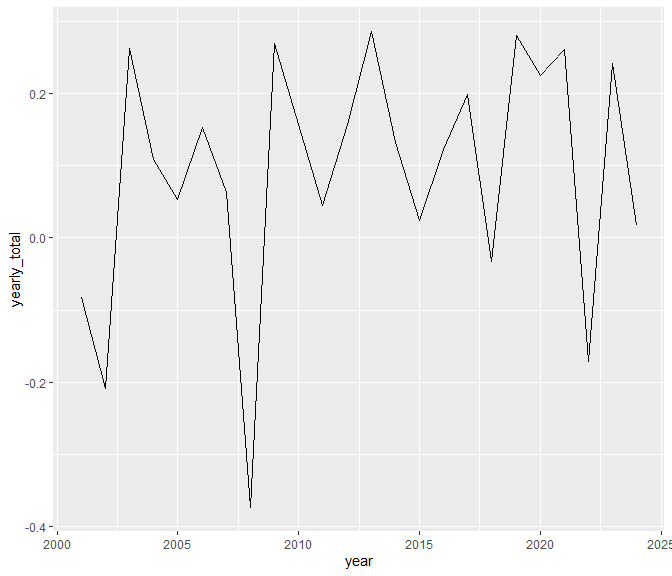
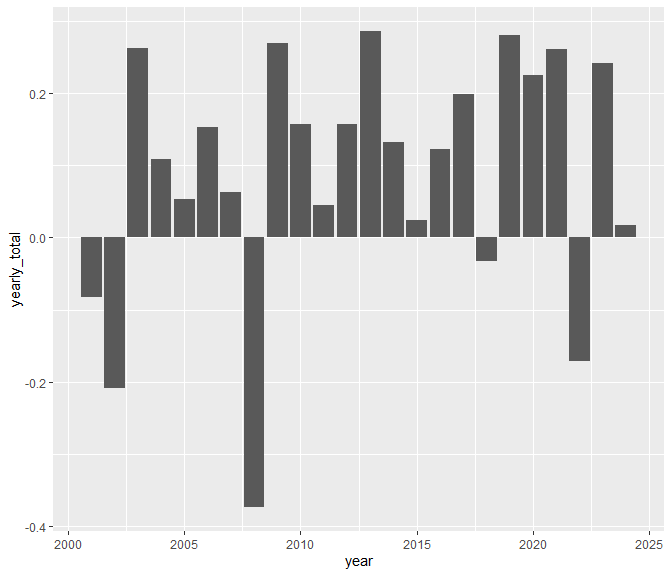
update files

diff --git a/wk2-workshop.md b/wk2-workshop.md
@@ -32,10 +32,10 @@ stocks = readRDS("../data/wk2_stocks.rds")
 
 ``` r
 #cumulative returns of the SP stocks
-sum(stocks$SPY_returns)
+sum(stocks$SPY_returns)*100
 ```
 
-    ## [1] 2.183304
+    ## [1] 218.3304
 
 ``` r
 #average daily returns of the SP index
@@ -45,17 +45,26 @@ sum(stocks$SPY_returns)/(sum(!duplicated(stocks$date)))
     ## [1] 0.0003765616
 
 ``` r
-mean(stocks$SPY_returns)
+mean(stocks$SPY_returns)*100
 ```
 
-    ## [1] 0.0003765616
+    ## [1] 0.03765616
 
 ``` r
 #standard deviation
-sd(stocks$SPY_returns)
+sd(stocks$SPY_returns)*100
 ```
 
-    ## [1] 0.01221943
+    ## [1] 1.221943
+
+- The cumulative returns of the S&P index during this period is
+  `sum(stocks$SPY_returns)*100`
+
+- The average daily returns of the S&P index during this period is
+  `mean(stocks$SPY_returns)*100`
+
+- The standard deviation of the daily returns of the S&P index during
+  this period is `sd(stocks$SPY_returns)*100`
 
 plots
 
@@ -75,7 +84,7 @@ stocks %>%
   group_by(year) %>%
   summarise(yearly_total = sum(SPY_returns)) %>%
   ggplot(aes(x= year, y = yearly_total)) +
-  geom_line()
+  geom_col()
 ```
 
 ![](wk2-workshop_files/figure-gfm/unnamed-chunk-4-2.png)<!-- -->
